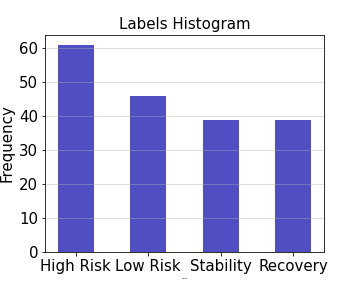
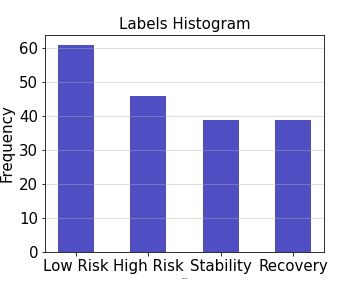
finalizing code

Changed region(s): [[0.0917, 0.875, 0.5194, 0.9688]]

diff --git a/scripts/histogram.py b/scripts/histogram.py
@@ -21,7 +21,7 @@ for x in range(0,len(Geo_data['Prediction'].unique())):
 
 plt.figure(figsize=[5,4])
 
-labels = ['High Risk', 'Low Risk', 'Stability', 'Recovery']
+labels = ['Low Risk', 'High Risk', 'Stability', 'Recovery']
 plt.bar(labels, counts, width = 0.5, color='#0504aa',alpha=0.7)
 plt.grid(axis='y', alpha=0.50)
 plt.xlabel('Status',fontsize=2)
